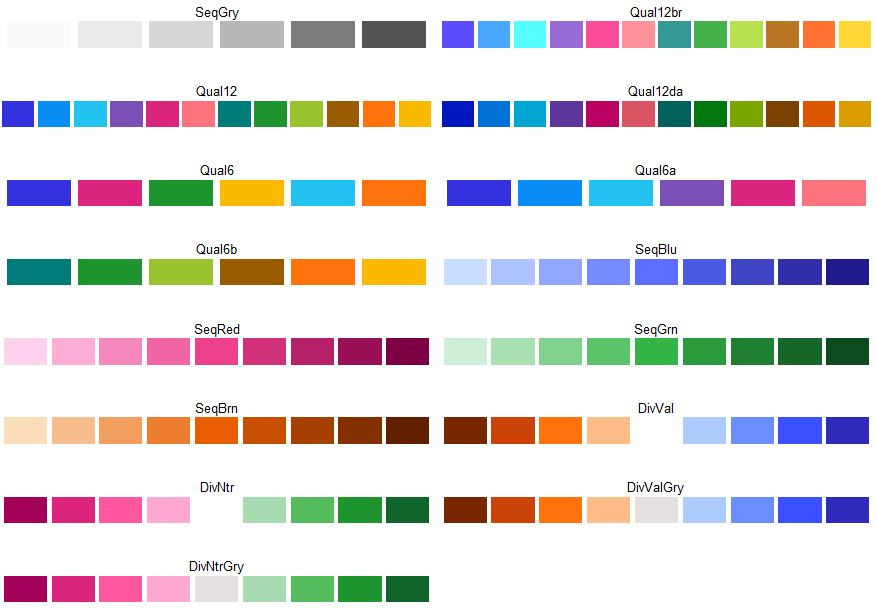
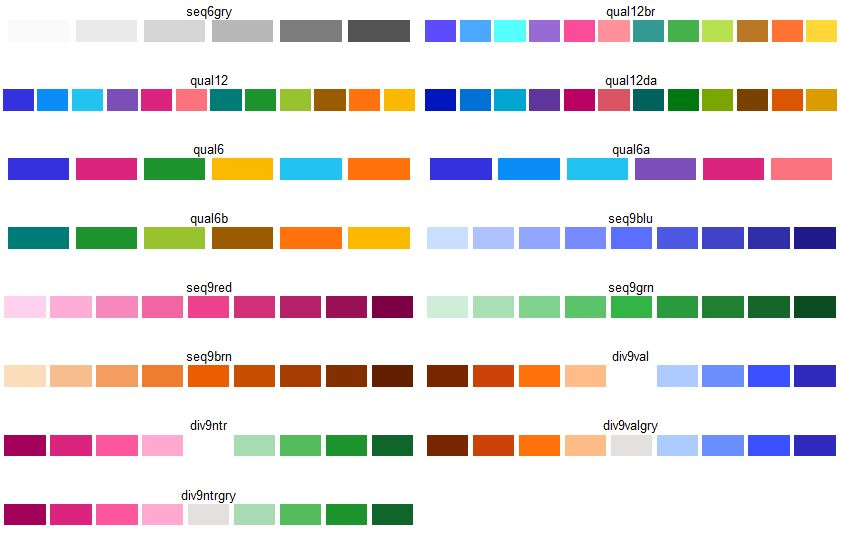
Devinitive Palettes

diff --git a/README.md b/README.md
@@ -41,22 +41,22 @@ get_zuericolors(palette = "qual6")
 
 [1] "#3431DE" "#DB247D" "#1D942E" "#FBB900" "#23C3F1" "#FF720C"
 
-# Get first color from palette "divntrgry"
-get_zuericolors(palette = "divntrgry", nth = 1)
+# Get first color from palette "div9ntrgry"
+get_zuericolors(palette = "div9ntrgry", nth = 1)
 
 [1] "#EA4F61"
 
-# Get first four colors from palette "contrasting12"
-get_zuericolors("contrasting12", nth = 1:4)
+# Get first four colors from palette "div9ntrgry"
+get_zuericolors("div9ntrgry", nth = 1:4)
 
 [1] "#A30059" "#DB247D" "#FF579E" "#FFA8D0"
 
-# View color palette "harmonic12"
-view_zuericolors("seqblu")
+# View color palette "seq9blu"
+view_zuericolors("seq9blu")
 ```
 
 
-<img src='pictures/seqblu.JPG' />
+<img src='pictures/seq9blu.JPG' />
 
 ## Getting help
 
